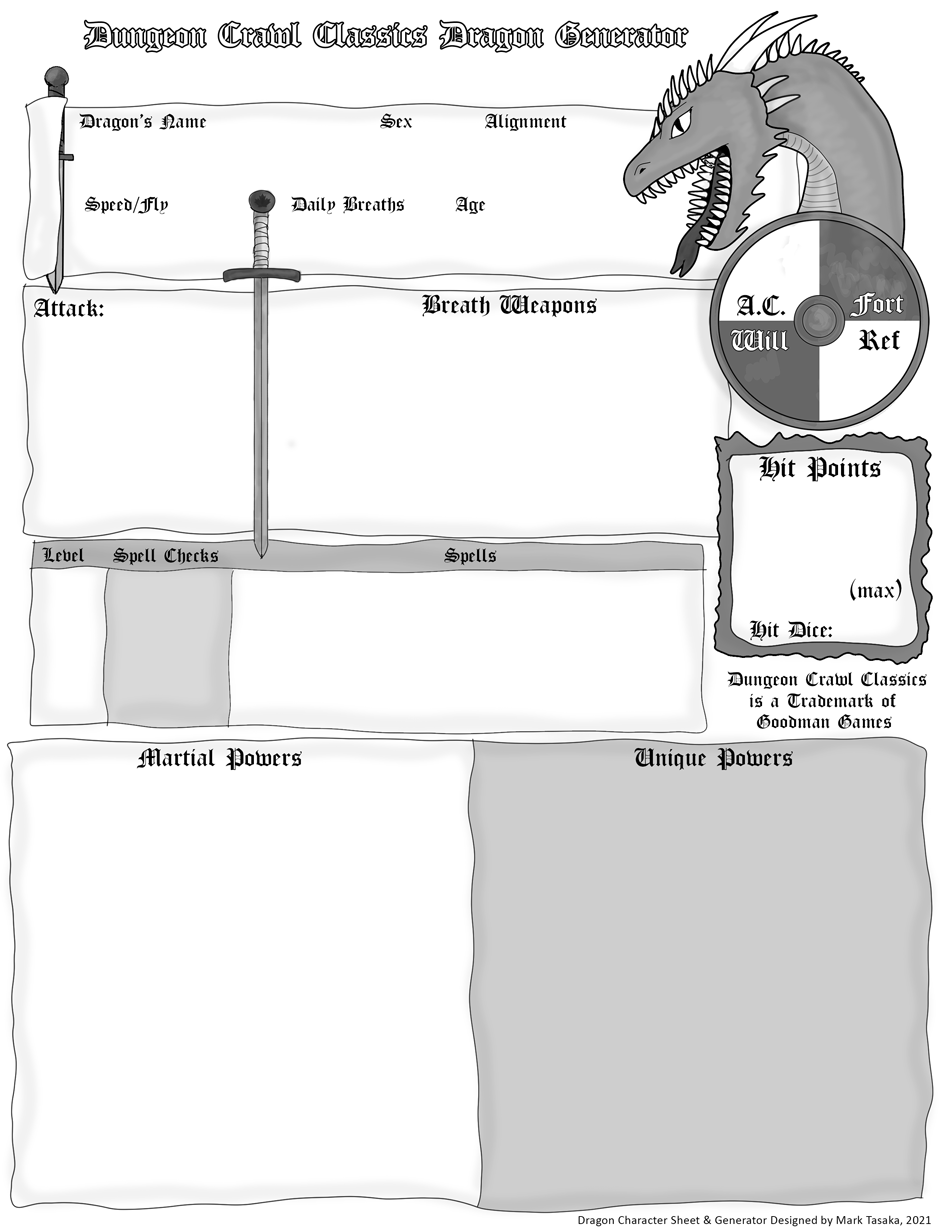
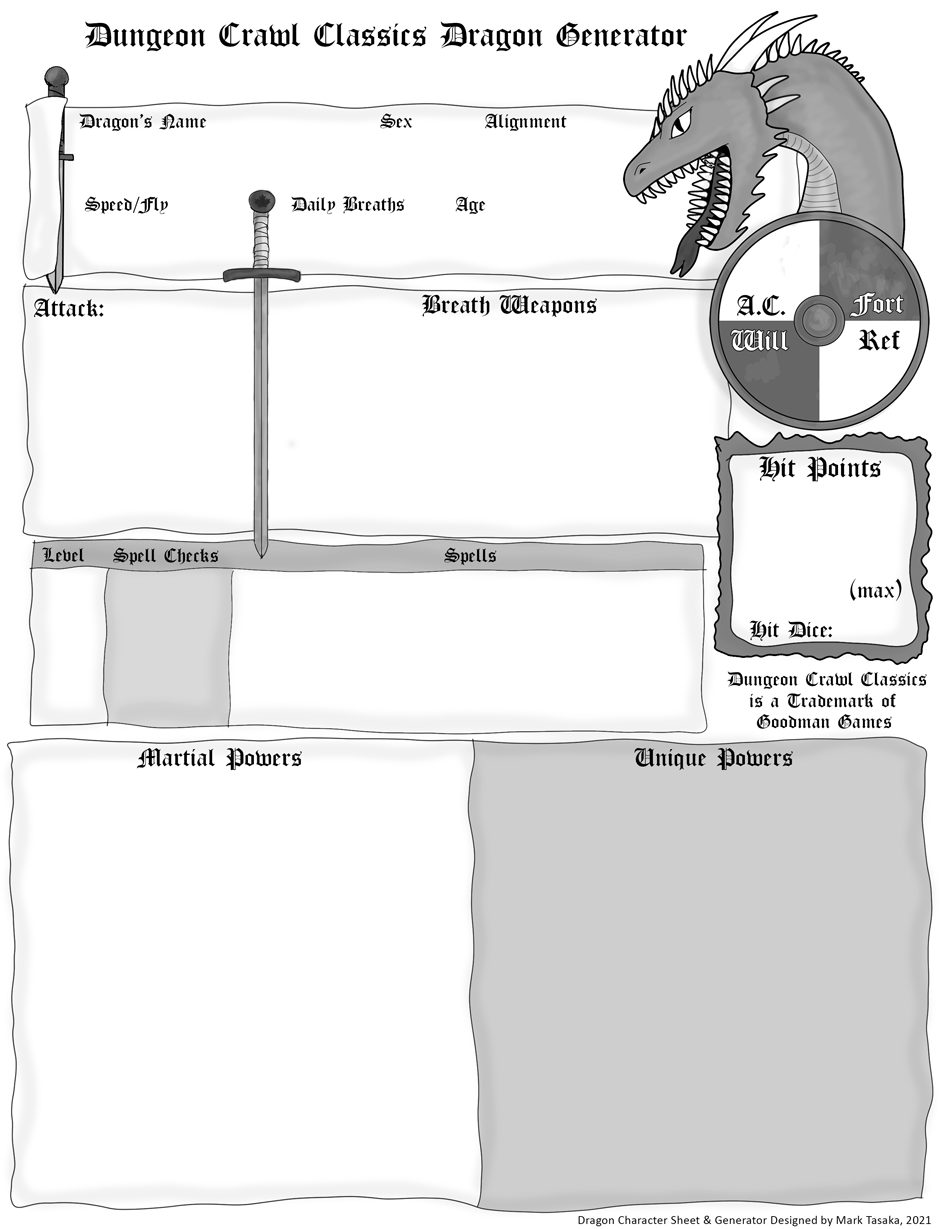
Update 1.02

Changed region(s): [[0.0916, 0.0, 0.7326, 0.0618]]

diff --git a/dragon/css/dragon.css b/dragon/css/dragon.css
@@ -17,7 +17,41 @@ body{
 #dragonType{
     position:absolute;
     top: 70px;
-    left: 200px;
+    left: 180px;
 	font-size: 1.1em;
+    font-weight: bold;
+}
+
+#dragonAge{
+    position:absolute;
+    top: 235px;
+    left: 465px;
+	font-size: 0.8em;
+    font-weight: bold;
+}
+
+#dragonAttackTypes{
+    position:absolute;
+    top: 340px;
+    left: 45px;
+	font-size: 0.7em;
+    font-weight: bold;
+}
+
+
+#dragonHD{
+    position:absolute;
+    top: 627px;
+    left: 850px;
+	font-size: 0.9em;
+    font-weight: bold;
+}
+
+
+#dragonHitPoints{
+    position:absolute;
+    top: 560px;
+    left: 860px;
+	font-size: 1.2em;
     font-weight: bold;
 }

diff --git a/dragon/php/dragonSelect.php b/dragon/php/dragonSelect.php
@@ -44,18 +44,18 @@ function dragonAppearance()
 
 function getDragonAgeArray($input)
 {
-    $a00 = array("Very young (1-5 years)", "1", "1", "d4-2", "10", "1 claw");
-    $a01 = array("Young (6-15 years)", "2", "1", "d6-2", "11", "1 claw, bite");
-    $a02 = array("Sub-adult (16-25 years)", "3", "1", "d8-1", "12", "1 claw, bite");
-    $a03 = array("Young adult (26-50 years)", "4", "2", "d8+1", "13", "2 claws, bite");
-    $a04 = array("Adult (51-100 years)", "5", "2", "d8+2", "14", "2 claws, bite");
-    $a05 = array("Old (101-200 years)", "6", "2", "d10+2", "15", "2 claws, bite, tail slap");
-    $a06 = array("Very old (201-400 years)", "7", "3", "d10+4", "16", "2 claws, bite, tail slap");
-    $a07 = array("Ancient (401-600 years)", "8", "3", "d12+4", "17", "2 claws, bite, tail slap, wing buffet");
-    $a08 = array("Wyrm (601-1,000 years)", "9", "3", "d14+4", "18", "2 claws, bite, tail slap, wing buffet");
-    $a09 = array("Great wyrm (1,001-2,000 years)", "10", "4", "d16+4", "19", "3 claws, bite, tail slap, wing buffet, crush");
-    $a10 = array("Elder wyrm (2,000-5,000 years)", "11", "5", "d10+10", "20", "4 claws, bite, tail slap, wing buffet, crush");
-    $a11 = array("Immortal (5,001+ years)", "12", "6", "d12+10", "21", "4 claws, bite, tail slap, wing buffet, crush");
+    $a00 = array("Very young", "1", "1", "d4-2", "10", "1 x Claws (1d8 damage)");
+    $a01 = array("Young", "2", "1", "d6-2", "11", "1 x Claws (1d8 damage)<br/><br/>Bite (1d12 damage)");
+    $a02 = array("Sub-adult", "3", "1", "d8-1", "12", "1 x Claw (1d8 damage)<br/><br/>Bite (1d12 damage)");
+    $a03 = array("Young adult", "4", "2", "d8+1", "13", "2 x Claws (1d8 damage)<br/><br/>Bite (1d12 damage)");
+    $a04 = array("Adult", "5", "2", "d8+2", "14", "2 x Claws (1d8 damage)<br/><br/>Bite (1d12 damage)");
+    $a05 = array("Old", "6", "2", "d10+2", "15", "2 x Claws (1d8 damage)<br/><br/>Bite (1d12 damage)<br/><br/>Tail slap (1d20 damage)");
+    $a06 = array("Very old", "7", "3", "d10+4", "16", "2 x Claws (1d8 damage)<br/><br/>Bite (1d12 damage)<br/><br/>Tail slap (1d20 damage)");
+    $a07 = array("Ancient", "8", "3", "d12+4", "17", "2 x Claws (1d8 damage)<br/><br/>Bite (1d12 damage)<br/><br/>Tail slap (1d20 damage)<br/><br/>Wing buffet (2d12 damage)");
+    $a08 = array("Wyrm", "9", "3", "d14+4", "18", "2 x Claws (1d8 damage)<br/><br/>Bite (1d12 damage)<br/><br/>Tail slap (1d20 damage)<br/><br/>Wing buffet (2d12 damage)");
+    $a09 = array("Great wyrm", "10", "4", "d16+4", "19", "3 x Claws (1d8 damage)<br/><br/>Bite (1d12 damage)<br/><br/>Tail slap (1d20 damage)<br/><br/>Wing buffet (2d12 damage)<br/><br/>Crush (3d12 damage)");
+    $a10 = array("Elder wyrm", "11", "5", "d10+10", "20", "4 x Claws (1d8 damage)<br/><br/>Bite (1d12 damage)<br/><br/>Tail slap (1d20 damage)<br/><br/>Wing buffet (2d12 damage)<br/><br/>Crush (3d12 damage)");
+    $a11 = array("Immortal", "12", "6", "d12+10", "21", "4 x Claws (1d8 damage)<br/><br/>Bite (1d12 damage)<br/><br/>Tail slap (1d20 damage)<br/><br/>Wing buffet (2d12 damage)<br/><br/>Crush (3d12 damage)");
 
     $array1= array($a00, $a01, $a02, $a03, $a04, $a05, $a06, $a07, $a08, $a09, $a10, $a11);
     
@@ -65,7 +65,6 @@ function getDragonAgeArray($input)
 
 function getDragonAge($input)
 {
-    $dragonArray = array();
 
     switch($input)
     {
@@ -99,10 +98,124 @@ function getDragonAge($input)
 
     }
 
-    $dragonArray = getDragonAgeArray($age);
+    $age -= 1;
 
-    return $dragonArray;
+    return $age;
 }
 
+
+function getDragonAgeNumber($input)
+{    
+    
+    switch($input)
+    {
+        case 0:
+            $age = rand(1, 5);
+            break;
+
+        case 1:
+            $age = rand(6, 15);
+            break;
+
+        case 2:
+            $age = rand(16, 25);
+            break;
+        
+        case 3:
+            $age = rand(26, 50);
+            break;
+        
+        case 4:
+            $age = rand(51, 100);
+            break;   
+
+        case 5:
+            $age = rand(101, 200);
+            break;
+
+            case 6:
+                $age = rand(201, 400);
+                break;
+    
+            case 7:
+                $age = rand(401, 600);
+                break;
+    
+            case 8:
+                $age = rand(601, 1000);
+                break;
+            
+            case 9:
+                $age = rand(1001, 2000);
+                break;
+            
+            case 10:
+                $age = rand(2001, 5000);
+                break;   
+    
+            case 11:
+                $age = rand(5001, 10000);
+                break;    
+    
+        default:
+        $age = 0;
+
+    }
+
+    return $age;
+
+}
+
+function getHitDice($input)
+{
+    $number = (int)$input;
+
+    switch($number)
+    {
+        case 1:
+            $hd = rand(1, 3);
+            break;
+
+        case 2:
+            $hd = rand(1, 6);
+            $hd += 2;
+            break;
+
+        case 3:
+            $hd = rand(1, 8);
+            $hd += 4;
+            break;
+        
+        case 4:
+            $hd = rand(1, 10);
+            $hd += 6;
+            break;
+        
+        case 5:
+            $hd1 = rand(1, 6);
+            $hd2 = rand(1, 6);
+            $hd3 = rand(1, 6);
+
+            $hd = $hd1 + $hd2 + $hd3;
+            $hd += 10;
+            break;    
+
+        default:
+        $hd = 0;
+
+    }
+
+
+    return $hd;
+}
+
+function getHitPoints ($age, $hd)
+{
+    $age += 1;
+
+    $hitPoints = $age * $hd;
+
+    return $hitPoints;
+}
 
 ?>

diff --git a/dragon/dragon.php b/dragon/dragon.php
@@ -37,6 +37,18 @@ $dragonAppearance = dragonAppearance();
 
 $dragonAge = getDragonAge($dragonSize);
 
+$dragonAgeArray = array();
+$dragonAgeArray = getDragonAgeArray($dragonAge);
+
+$dragonAgeDesc = $dragonAgeArray[0];
+$dragonAgeYears = getDragonAgeNumber($dragonAge);
+
+$dragonAttackTypes = $dragonAgeArray[5];
+
+$dragonHD = getHitDice($dragonSize);
+
+$dragonHitPoints = getHitPoints ($dragonAge, $dragonHD);
+
 
 
 ?>
@@ -51,10 +63,48 @@ $dragonAge = getDragonAge($dragonSize);
 
 echo $theDragonSize . ' ' . $dragonAppearance . ' Dragon';
 
-
 ?>
 </span>
            
+   
+<span id="dragonAge">
+<?php
+
+echo $dragonAgeDesc . ' (' . $dragonAgeYears . ' years)';
+
+?>
+</span>
+
+
+<span id="dragonAttackTypes">
+<?php
+
+echo $dragonAttackTypes;
+
+?>
+</span>
+
+
+<span id="dragonHD">
+<?php
+
+echo $dragonHD . 'd12';
+
+?>
+</span>
+
+
+
+<span id="dragonHitPoints">
+<?php
+
+echo $dragonHitPoints;
+
+?>
+</span>
+
+
+
 
 
 <script>
